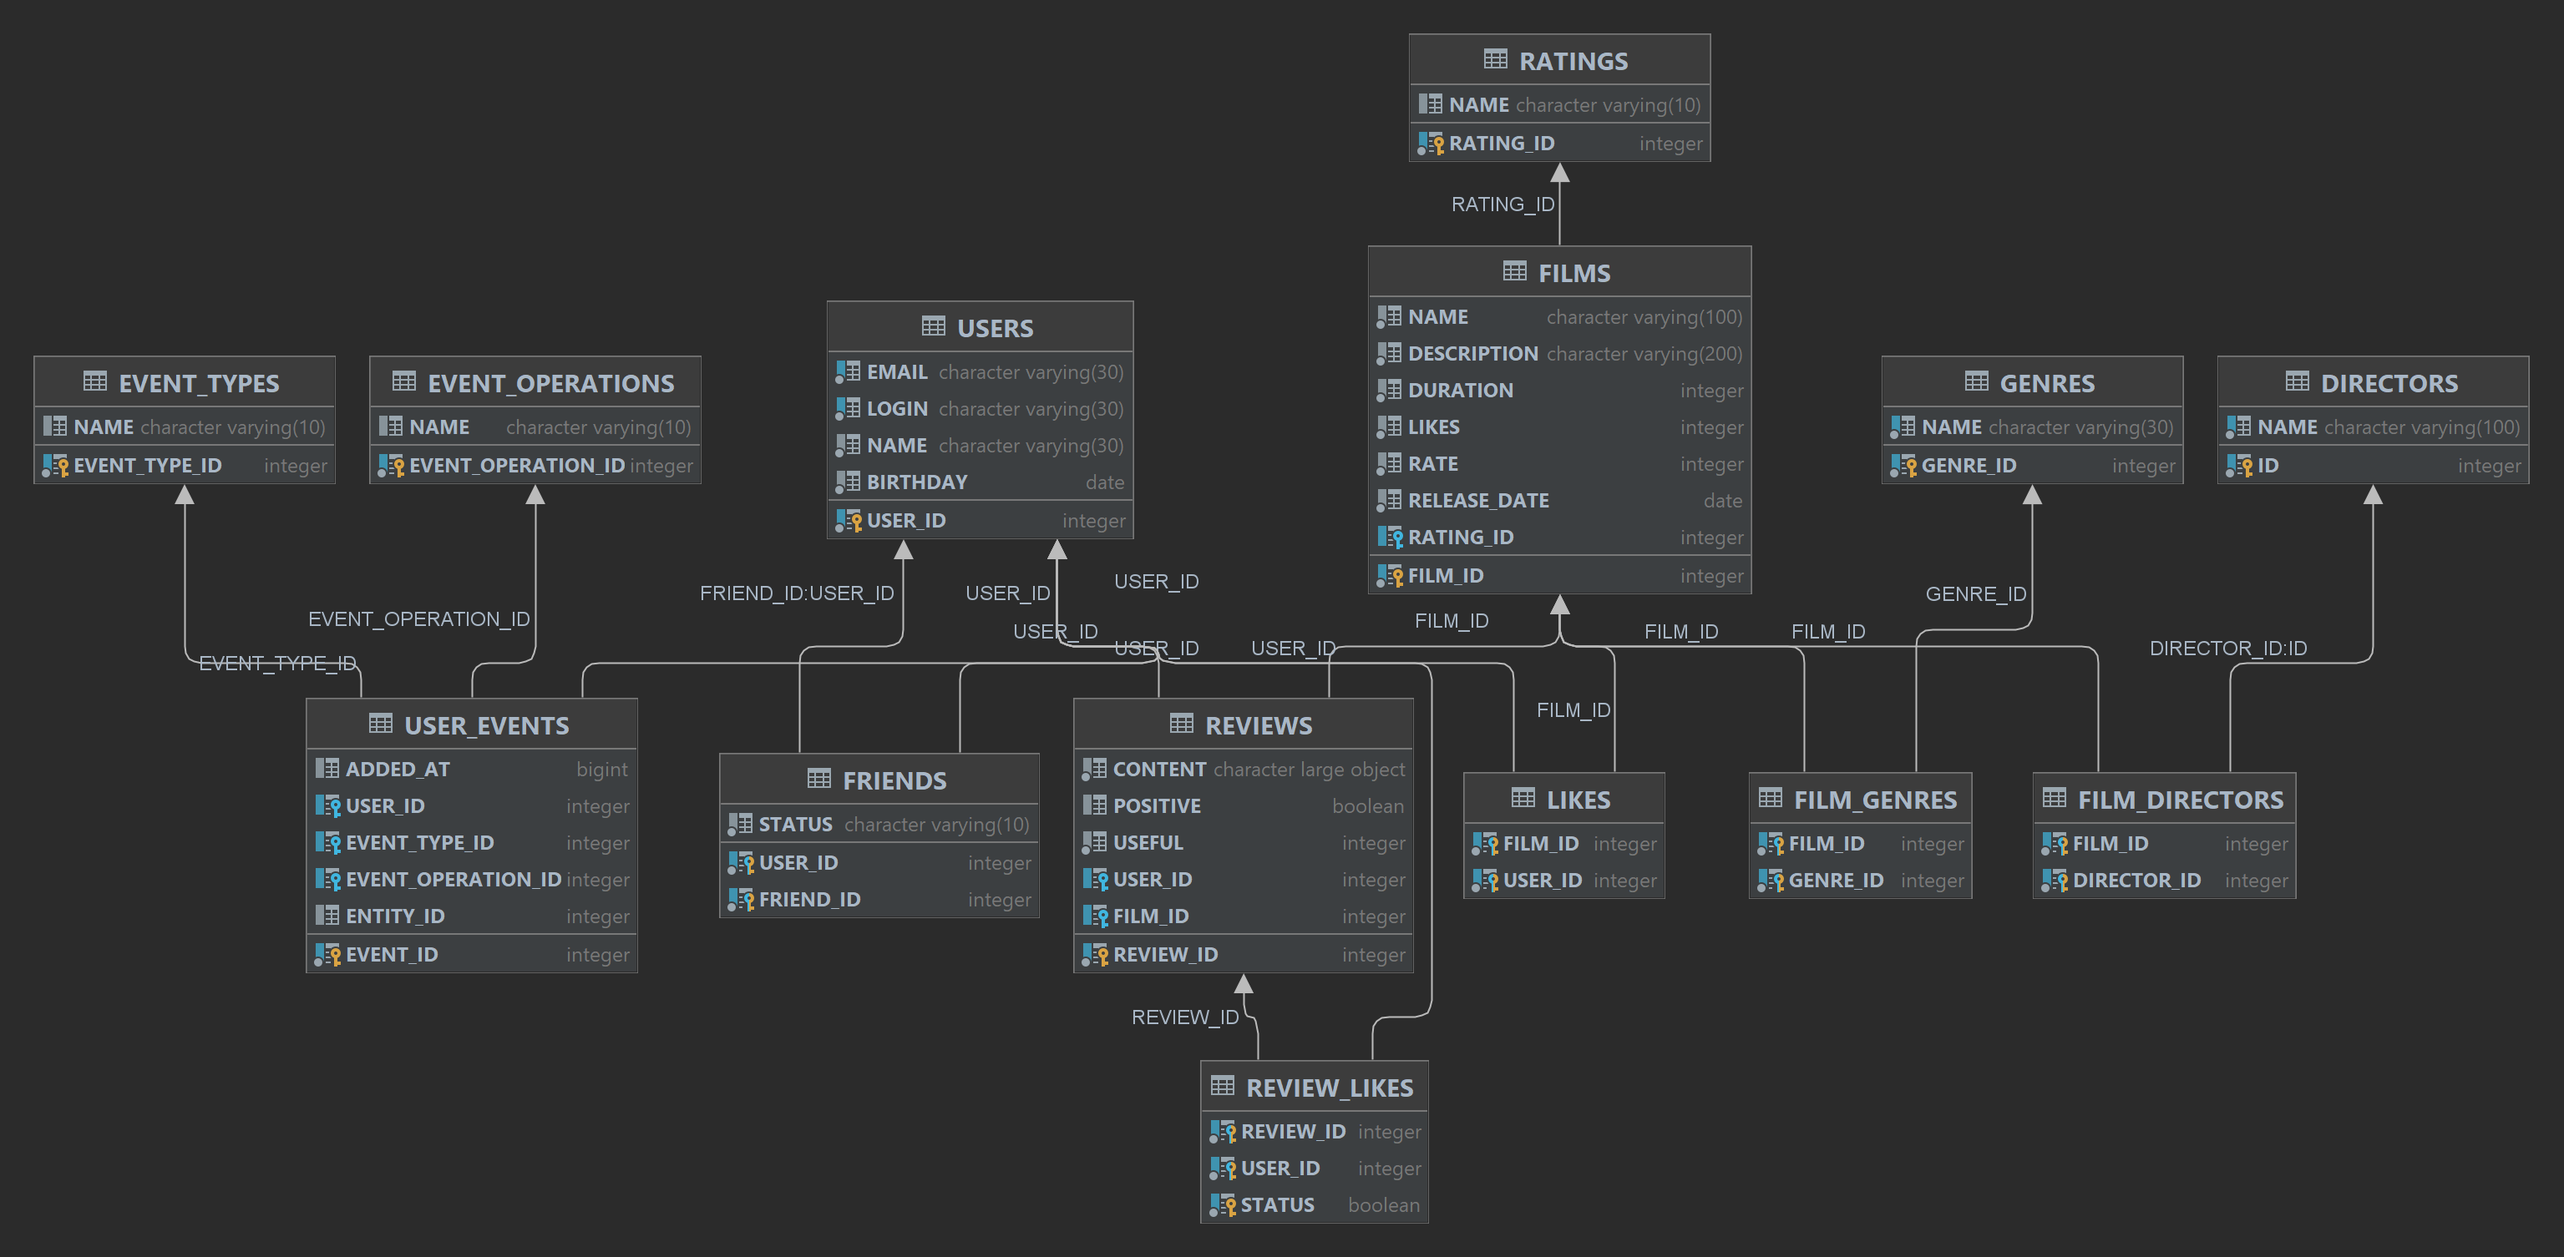
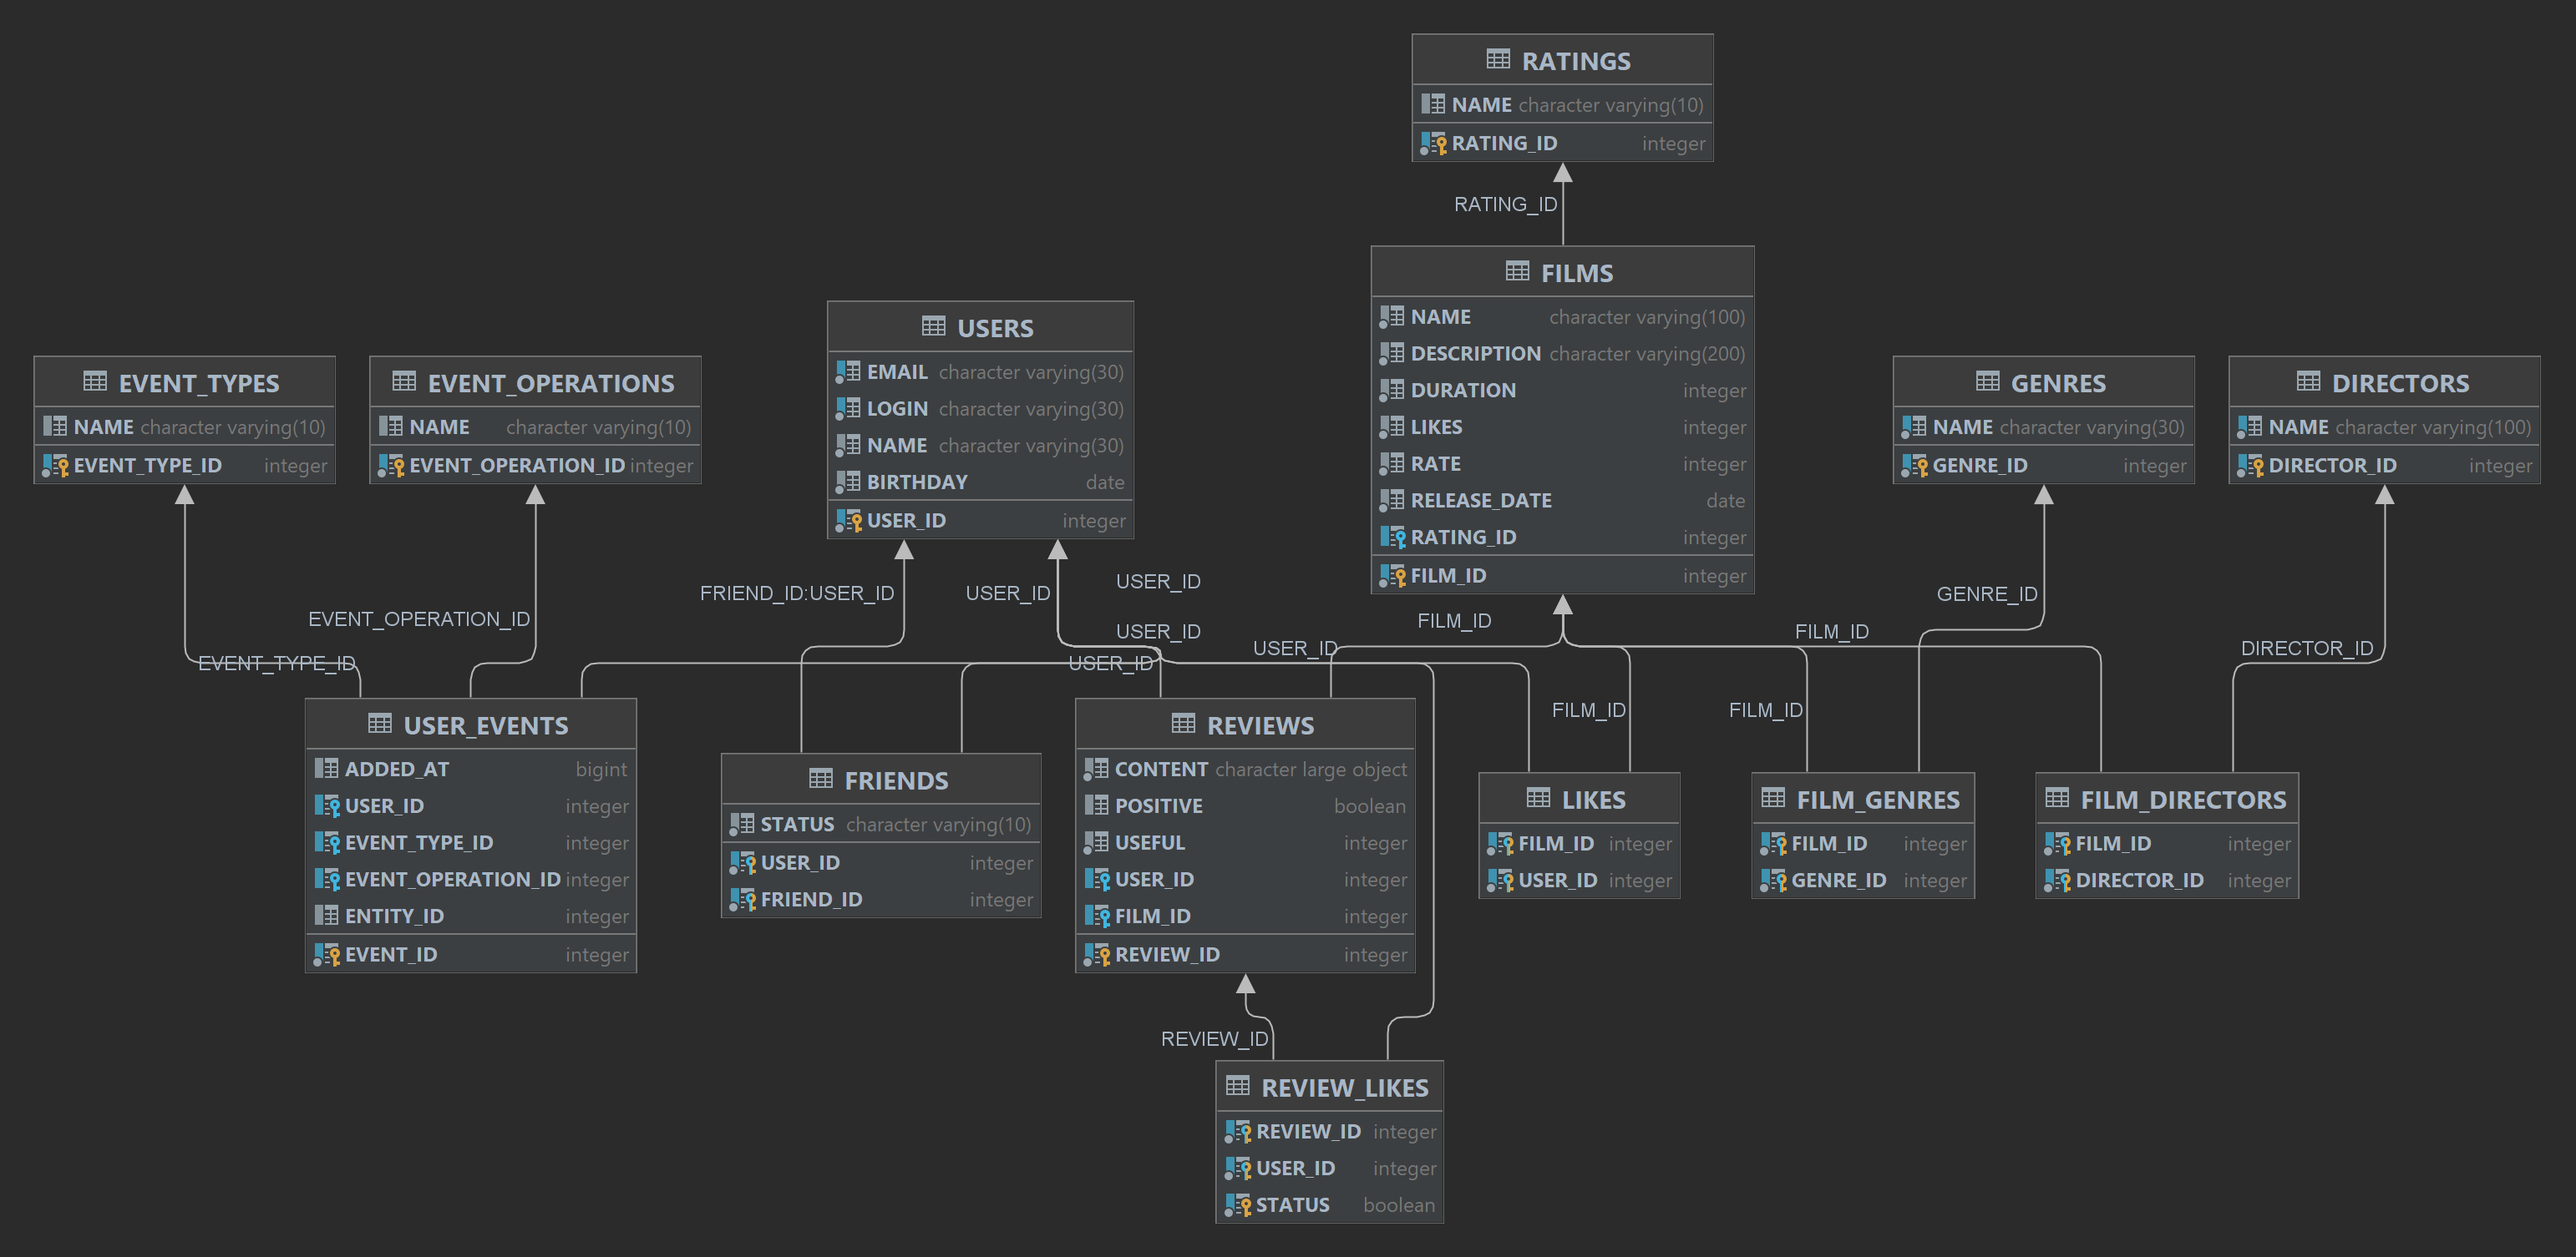
fix: рефакторинг по замечаниям

diff --git a/src/main/java/ru/yandex/practicum/filmorate/dao/impl/DirectorDaoStorageImpl.java b/src/main/java/ru/yandex/practicum/filmorate/dao/impl/DirectorDaoStorageImpl.java
@@ -10,6 +10,7 @@ import ru.yandex.practicum.filmorate.dao.DirectorStorage;
 import ru.yandex.practicum.filmorate.dto.DtoDirector;
 import ru.yandex.practicum.filmorate.exceptions.DirectorNotFoundException;
 import ru.yandex.practicum.filmorate.model.Director;
+import ru.yandex.practicum.filmorate.model.Film;
 
 import java.sql.PreparedStatement;
 import java.util.List;
@@ -32,7 +33,7 @@ public class DirectorDaoStorageImpl implements DirectorStorage {
 
         jdbcTemplate.update(connection -> {
             PreparedStatement ps = connection.prepareStatement(
-                    sql, new String[]{"id"});
+                    sql, new String[]{"director_id"});
 
             ps.setString(1, dtoDirector.getName());
             return ps;
@@ -42,7 +43,7 @@ public class DirectorDaoStorageImpl implements DirectorStorage {
 
     @Override
     public Director update(DtoDirector dtoDirector) {
-        String sql = "MERGE INTO `DIRECTORS` (ID, NAME) VALUES (?, ?);";
+        String sql = "UPDATE `DIRECTORS` SET DIRECTOR_ID=?, NAME=?;";
         if (isExists(dtoDirector.getId())) {
             jdbcTemplate.update(sql, dtoDirector.getId(), dtoDirector.getName());
         } else {
@@ -55,7 +56,7 @@ public class DirectorDaoStorageImpl implements DirectorStorage {
     public void delete(int id) {
         if (isExists(id)) {
             jdbcTemplate.update("DELETE FROM FILM_DIRECTORS WHERE DIRECTOR_ID = ?;", id);
-            jdbcTemplate.update("DELETE FROM DIRECTORS WHERE ID = ?;", id);
+            jdbcTemplate.update("DELETE FROM DIRECTORS WHERE DIRECTOR_ID = ?;", id);
         } else {
             throw new DirectorNotFoundException("Director ID not found.");
         }
@@ -63,10 +64,10 @@ public class DirectorDaoStorageImpl implements DirectorStorage {
 
     @Override
     public Director getById(int id) {
-        String sql = "SELECT ID, NAME FROM `DIRECTORS` WHERE ID = ?;";
+        String sql = "SELECT DIRECTOR_ID, NAME FROM `DIRECTORS` WHERE DIRECTOR_ID = ?;";
         SqlRowSet rowSet = jdbcTemplate.queryForRowSet(sql, id);
         if (rowSet.next()) {
-            return new Director(rowSet.getInt("id"), rowSet.getString("name"));
+            return new Director(rowSet.getInt("director_id"), rowSet.getString("name"));
         } else {
             throw new DirectorNotFoundException("Director ID= "+ id + " not found.");
         }
@@ -74,30 +75,30 @@ public class DirectorDaoStorageImpl implements DirectorStorage {
 
     @Override
     public List<Director> getAll() {
-        String sql = "SELECT ID, NAME FROM `DIRECTORS`;";
+        String sql = "SELECT DIRECTOR_ID, NAME FROM `DIRECTORS`;";
         return jdbcTemplate.query(sql,
-                (rs, rowNum)->new Director(rs.getInt("id"), rs.getString("name")));
+                (rs, rowNum)->new Director(rs.getInt("director_id"), rs.getString("name")));
     }
 
     @Override
-    public List<Director> saveDirectorsOfFilm(Long film_id, List<Director> directors) {
-        String sql = "MERGE INTO FILM_DIRECTORS (film_id, director_id) values ( ?, ? );";
+    public List<Director> saveDirectorsOfFilm(Film film) {
+        String sql = "INSERT INTO FILM_DIRECTORS (film_id, director_id) values ( ?, ? );";
 
-        for (Director director : directors) {
+        for (Director director : film.getDirectors()) {
             if (isExists(director.getId())) {
-                jdbcTemplate.update(sql, film_id, director.getId());
+                jdbcTemplate.update(sql, film.getId(), director.getId());
             } else {
                 throw new DirectorNotFoundException("Director with id= " + director.getId() + " not found!");
             }
         }
 
-        return directors.isEmpty() ? null : getDirectorsByFilm(film_id);
+        return film.getDirectors().isEmpty() ? null : getDirectorsByFilm(film.getId());
     }
 
     @Override
-    public List<Director> updateDirectorsOfFilm(Long film_id, List<Director> directors) {
-        deleteDirectorsOfFilm(film_id);
-        return saveDirectorsOfFilm(film_id, directors);
+    public List<Director> updateDirectorsOfFilm(Film film) {
+        deleteDirectorsOfFilm(film.getId());
+        return saveDirectorsOfFilm(film);
     }
 
     @Override
@@ -108,38 +109,21 @@ public class DirectorDaoStorageImpl implements DirectorStorage {
 
     @Override
     public List<Director> getDirectorsByFilm(Long film_id) {
-        String sql = "SELECT ID, NAME FROM DIRECTORS WHERE ID IN " +
+        String sql = "SELECT DIRECTOR_ID, NAME FROM DIRECTORS WHERE DIRECTOR_ID IN " +
                     "(SELECT DIRECTOR_ID FROM FILM_DIRECTORS WHERE FILM_ID = ?)";
 
         return jdbcTemplate.query(sql, (rs, numRow) ->
-                new Director(rs.getInt("id"), rs.getString("name")), film_id);
+                new Director(rs.getInt("director_id"), rs.getString("name")), film_id);
     }
 
     @Override
     public boolean isExists(int id) {
-        return jdbcTemplate.queryForObject( "SELECT COUNT(*) FROM DIRECTORS WHERE ID = ? ;", Integer.class, id) > 0;
+        return jdbcTemplate.queryForObject( "SELECT COUNT(*) FROM DIRECTORS WHERE DIRECTOR_ID = ? ;",
+                Integer.class, id) > 0;
     }
 
     @Override
-    public List<Long> getFilmsByDirectorOrderByLikes(int id) {
-        validateDirector(id);
-        String sql = "SELECT F.FILM_ID, COUNT(*) C FROM FILMS F LEFT JOIN LIKES L ON F.FILM_ID = L.FILM_ID" +
-                " WHERE F.FILM_ID IN (SELECT FD.FILM_ID FROM FILM_DIRECTORS FD WHERE FD.DIRECTOR_ID = ?)" +
-                " GROUP BY F.FILM_ID ORDER BY C DESC, F.FILM_ID ASC";
-
-        return jdbcTemplate.query(sql, (rs, numRow) -> rs.getLong("film_id"), id);
-    }
-
-    @Override
-    public List<Long> getFilmsByDirectorOrderByDate(int id) {
-        validateDirector(id);
-        String sql = "SELECT FILM_ID, RELEASE_DATE FROM FILMS WHERE FILM_ID IN " +
-                "(SELECT FD.FILM_ID FROM FILM_DIRECTORS FD WHERE FD.DIRECTOR_ID = ?) " +
-                "ORDER BY RELEASE_DATE ASC";
-        return jdbcTemplate.query(sql, (rs, numRow) -> rs.getLong("film_id"), id);
-    }
-
-    private void validateDirector(int id){
+    public void validateDirector(int id){
         if (!isExists(id))  throw new DirectorNotFoundException("Director with id= " + id + " not found!");
     }
 }

diff --git a/src/main/java/ru/yandex/practicum/filmorate/dao/impl/FilmDaoStorageImpl.java b/src/main/java/ru/yandex/practicum/filmorate/dao/impl/FilmDaoStorageImpl.java
@@ -26,7 +26,6 @@ import java.util.ArrayList;
 import java.util.HashSet;
 import java.util.List;
 import java.util.Set;
-import java.util.stream.Collectors;
 
 @Slf4j
 @Repository
@@ -92,7 +91,7 @@ public class FilmDaoStorageImpl implements FilmStorage {
         film.setId(keyHolder.getKey().longValue());
         saveGenreToDb(film);
 
-        List<Director> directorsOfFilm = directorStorage.saveDirectorsOfFilm(film.getId(), film.getDirectors());
+        List<Director> directorsOfFilm = directorStorage.saveDirectorsOfFilm(film);
         film.setDirectors(directorsOfFilm);
 
         log.info("Film create: {}.", film.getRate());
@@ -139,7 +138,7 @@ public class FilmDaoStorageImpl implements FilmStorage {
         Film film = dtoMapper.dtoToFilm(dtoFilm);
         saveGenreToDb(film);
 
-        List<Director> directors = directorStorage.updateDirectorsOfFilm(film.getId(), film.getDirectors());
+        List<Director> directors = directorStorage.updateDirectorsOfFilm(film);
         film.setDirectors(directors);
 
         return film;
@@ -276,5 +275,34 @@ public class FilmDaoStorageImpl implements FilmStorage {
                 "LIMIT ?;";
 
         return jdbcTemplate.query(sql, this::makeFilm, count);
+    }
+
+    @Override
+    public List<Film> getFilmsByDirectorOrderByLikes(int id) throws MpaRatingNotFound {
+        directorStorage.validateDirector(id);
+        String sql = "SELECT * FROM FILMS F" +
+                " WHERE F.FILM_ID IN (SELECT FD.FILM_ID FROM FILM_DIRECTORS FD WHERE FD.DIRECTOR_ID = ?)" +
+                " ORDER BY F.LIKES DESC, F.FILM_ID ASC";
+
+        List<Film> films = jdbcTemplate.query(sql, this::makeFilm, id);
+        for (Film film :films) {
+            film.setMpa(mpaStorage.getRatingMpaById(film.getMpa().getId()));
+            film.setGenres(genreStorage.getFilmGenres(film.getId()));
+        }
+        return films;
+    }
+
+    @Override
+    public List<Film> getFilmsByDirectorOrderByDate(int id) throws MpaRatingNotFound {
+        directorStorage.validateDirector(id);
+        String sql = "SELECT * FROM FILMS F WHERE F.FILM_ID IN " +
+                "(SELECT FD.FILM_ID FROM FILM_DIRECTORS FD WHERE FD.DIRECTOR_ID = ?) " +
+                "ORDER BY F.RELEASE_DATE ASC";
+        List<Film> films = jdbcTemplate.query(sql, this::makeFilm, id);
+        for (Film film :films) {
+            film.setMpa(mpaStorage.getRatingMpaById(film.getMpa().getId()));
+            film.setGenres(genreStorage.getFilmGenres(film.getId()));
+        }
+        return films;
     }
 }

diff --git a/src/main/java/ru/yandex/practicum/filmorate/service/FilmService.java b/src/main/java/ru/yandex/practicum/filmorate/service/FilmService.java
@@ -11,6 +11,7 @@ import ru.yandex.practicum.filmorate.model.EventOperation;
 import ru.yandex.practicum.filmorate.model.EventType;
 import ru.yandex.practicum.filmorate.model.Film;
 
+import java.awt.*;
 import java.util.ArrayList;
 import java.util.List;
 import java.util.stream.Collectors;
@@ -59,20 +60,14 @@ public class FilmService {
         return filmStorage.getFilmTop(count, genreId, year);
     }
 
-    public List<Film> getFilmsByDirectorsSortedByLike(int id) throws FilmNotFoundException, MpaRatingNotFound {
-        List<Film> result = new ArrayList<>();
-        for (Long film_id : directorStorage.getFilmsByDirectorOrderByLikes(id)) {
-            result.add(getFilmById(film_id));
+    public List<Film> getFilmsByDirectorsSorted(int id, String sortBy) throws FilmNotFoundException, MpaRatingNotFound,
+            RequestParamNotValid {
+        if (sortBy.equals("year")){
+            return filmStorage.getFilmsByDirectorOrderByDate(id);
+        } else if (sortBy.equals("likes")) {
+            return filmStorage.getFilmsByDirectorOrderByLikes(id);
+        } else {
+            throw new RequestParamNotValid("Параметр запроса неправильный: " + sortBy);
         }
-        return result;
     }
-
-    public List<Film> getFilmsByDirectorsSortedByDate(int id) throws FilmNotFoundException, MpaRatingNotFound {
-        List<Film> result = new ArrayList<>();
-        for (Long film_id : directorStorage.getFilmsByDirectorOrderByDate(id)) {
-            result.add(getFilmById(film_id));
-        }
-        return result;
-    }
-
 }

diff --git a/src/main/java/ru/yandex/practicum/filmorate/dao/DirectorStorage.java b/src/main/java/ru/yandex/practicum/filmorate/dao/DirectorStorage.java
@@ -2,6 +2,7 @@ package ru.yandex.practicum.filmorate.dao;
 
 import ru.yandex.practicum.filmorate.dto.DtoDirector;
 import ru.yandex.practicum.filmorate.model.Director;
+import ru.yandex.practicum.filmorate.model.Film;
 
 import java.util.List;
 
@@ -14,15 +15,13 @@ public interface DirectorStorage {
 
     List<Director> getDirectorsByFilm(Long film_id);
 
-    List<Director> saveDirectorsOfFilm(Long film_id, List<Director> directors);
+    List<Director> saveDirectorsOfFilm(Film film);
 
-    List<Director> updateDirectorsOfFilm(Long film_id, List<Director> directors);
+    List<Director> updateDirectorsOfFilm(Film film);
 
     void deleteDirectorsOfFilm(Long film_id);
 
     boolean isExists(int id);
 
-    List<Long> getFilmsByDirectorOrderByLikes(int id);
-
-    List<Long> getFilmsByDirectorOrderByDate(int id);
+    void validateDirector(int id);
 }

diff --git a/src/main/java/ru/yandex/practicum/filmorate/controller/FilmController.java b/src/main/java/ru/yandex/practicum/filmorate/controller/FilmController.java
@@ -72,8 +72,6 @@ public class FilmController {
     @GetMapping("/director/{directorId}")
     public List<Film> getFilmsByDirector(@PathVariable("directorId") Integer id,  @RequestParam String sortBy)
             throws FilmNotFoundException, MpaRatingNotFound, RequestParamNotValid {
-        if (sortBy.equals("year")) return filmService.getFilmsByDirectorsSortedByDate(id);
-        else if (sortBy.equals("likes")) return filmService.getFilmsByDirectorsSortedByLike(id);
-        else throw new RequestParamNotValid("Параметр запроса неверный:  " + sortBy);
+        return filmService.getFilmsByDirectorsSorted(id, sortBy);
     }
 }

diff --git a/src/main/java/ru/yandex/practicum/filmorate/dao/FilmStorage.java b/src/main/java/ru/yandex/practicum/filmorate/dao/FilmStorage.java
@@ -25,4 +25,8 @@ public interface FilmStorage {
     void addLike(long filmId);
 
     void removeLike(long filmId);
+
+    List<Film> getFilmsByDirectorOrderByDate(int id) throws MpaRatingNotFound;
+    List<Film> getFilmsByDirectorOrderByLikes(int id) throws MpaRatingNotFound;
+
 }

diff --git a/src/main/java/ru/yandex/practicum/filmorate/dto/DtoDirector.java b/src/main/java/ru/yandex/practicum/filmorate/dto/DtoDirector.java
@@ -7,7 +7,6 @@ import javax.validation.constraints.NotNull;
 
 @Data
 public class DtoDirector {
-    @NotNull
     private int id;
     @NotNull
     @NotBlank(message = "name should not be blank")
